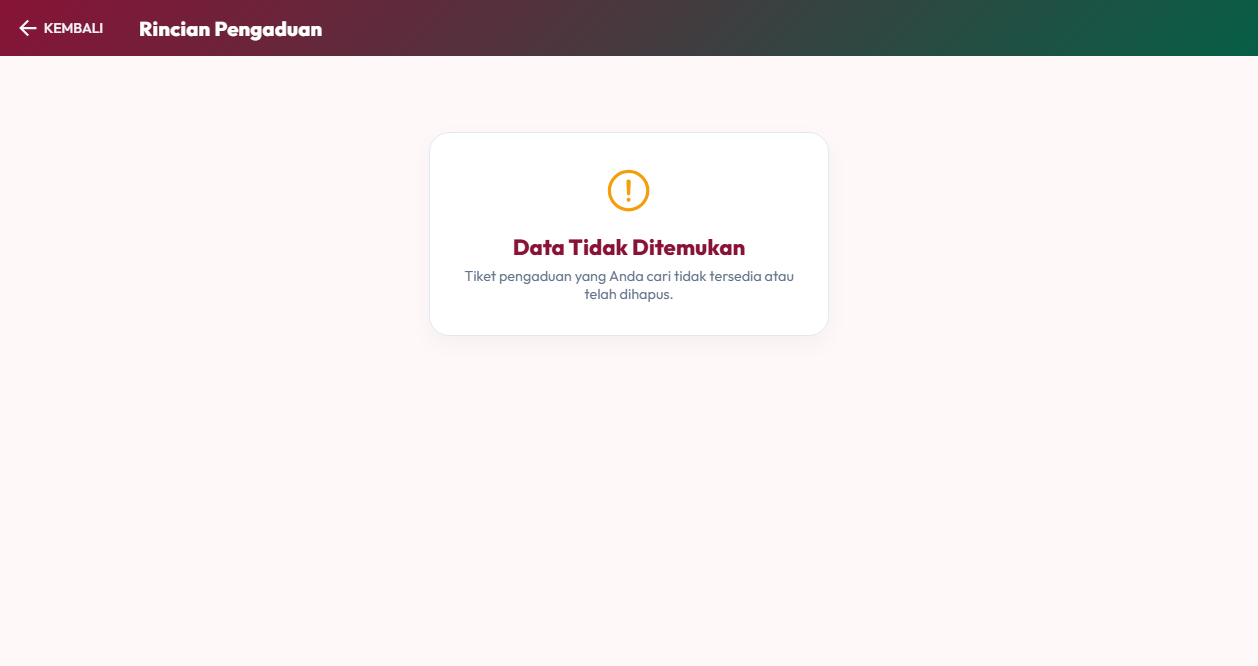
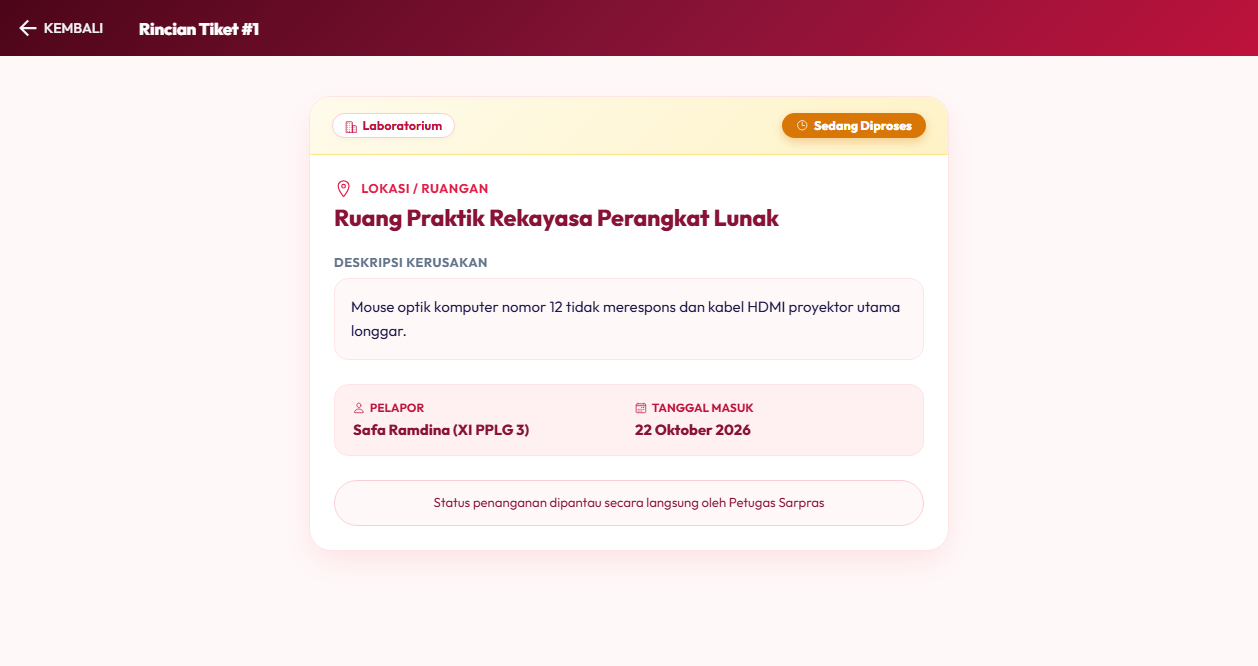
fix: resolve user role extraction, improve detail async fetching, and update all screenshots

diff --git a/Beringin-Smart/src/pages/Detail.tsx b/Beringin-Smart/src/pages/Detail.tsx
@@ -27,18 +27,23 @@ import {
 } from 'ionicons/icons';
 import { useParams } from 'react-router-dom';
 import { LaporanContext } from '../context/LaporanContext';
+import { Laporan } from '../types/laporan';
+import api from '../services/api';
 
 const Detail: React.FC = () => {
   const { id } = useParams<{ id: string }>();
   const idLaporan = id || '';
-  const { getLaporanById, ubahStatusLaporan } = useContext(LaporanContext);
+  const { getLaporanById, ubahStatusLaporan, laporanList } = useContext(LaporanContext);
+  const [laporan, setLaporan] = useState<Laporan | null>(null);
+  const [fetching, setFetching] = useState<boolean>(true);
   const [loading, setLoading] = useState(false);
   const [showToast, setShowToast] = useState(false);
   const [toastMsg, setToastMsg] = useState('');
   const [toastColor, setToastColor] = useState('dark');
 
-  const laporan = getLaporanById(idLaporan);
-  const role = localStorage.getItem('role') || 'siswa';
+  const userJson = localStorage.getItem('user');
+  const currentUser = userJson ? JSON.parse(userJson) : null;
+  const role = localStorage.getItem('role') === 'petugas' || currentUser?.role === 'petugas' ? 'petugas' : 'siswa';
 
   // Auth Guard: Arahkan ke /login jika belum ada token
   useEffect(() => {
@@ -47,6 +52,35 @@ const Detail: React.FC = () => {
     }
   }, []);
 
+  // Fetch / Retrieve Laporan reliably even on direct link or full refresh
+  useEffect(() => {
+    let isMounted = true;
+    const item = getLaporanById(idLaporan);
+    if (item) {
+      setLaporan(item);
+      setFetching(false);
+    } else {
+      setFetching(true);
+      api
+        .get('/laporan')
+        .then((res) => {
+          if (!isMounted) return;
+          const list: Laporan[] = res.data?.data || res.data || [];
+          const found = list.find((it) => String(it.id) === String(idLaporan));
+          if (found) {
+            setLaporan(found);
+          }
+        })
+        .catch((err) => console.error('Gagal mengambil detail laporan:', err))
+        .finally(() => {
+          if (isMounted) setFetching(false);
+        });
+    }
+    return () => {
+      isMounted = false;
+    };
+  }, [idLaporan, laporanList]);
+
   const handleSelesai = async () => {
     if (!idLaporan) return;
     setLoading(true);
@@ -54,6 +88,7 @@ const Detail: React.FC = () => {
     setLoading(false);
 
     if (success) {
+      setLaporan((prev) => (prev ? { ...prev, status: 'Selesai' } : null));
       setToastMsg('Status laporan berhasil diperbarui menjadi Selesai!');
       setToastColor('success');
       setShowToast(true);
@@ -64,21 +99,80 @@ const Detail: React.FC = () => {
     }
   };
 
+  if (fetching) {
+    return (
+      <IonPage>
+        <IonHeader className="ion-no-border">
+          <IonToolbar
+            style={
+              {
+                '--background': 'linear-gradient(135deg, #4c0519 0%, #881337 55%, #be123c 100%)',
+                '--color': '#ffffff',
+              } as React.CSSProperties
+            }
+          >
+            <IonButtons slot="start">
+              <IonBackButton defaultHref="/home" text="KEMBALI" color="light" />
+            </IonButtons>
+            <IonTitle style={{ fontWeight: 800, fontFamily: "'Outfit', sans-serif" }}>
+              Memuat Rincian...
+            </IonTitle>
+          </IonToolbar>
+        </IonHeader>
+        <IonContent
+          className="ion-padding ion-text-center"
+          style={{ '--background': '#fff8f8' } as React.CSSProperties}
+        >
+          <div style={{ padding: '80px 20px' }}>
+            <IonSpinner name="crescent" color="primary" style={{ width: '42px', height: '42px' }} />
+            <p style={{ marginTop: '14px', color: '#881337', fontWeight: 700, fontSize: '0.92rem' }}>
+              Memuat data tiket pengaduan sarpras...
+            </p>
+          </div>
+        </IonContent>
+      </IonPage>
+    );
+  }
+
   if (!laporan) {
     return (
       <IonPage>
         <IonHeader className="ion-no-border">
-          <IonToolbar style={{ '--background': 'linear-gradient(135deg, #881337 0%, #065f46 100%)', '--color': '#ffffff' } as React.CSSProperties}>
+          <IonToolbar
+            style={
+              {
+                '--background': 'linear-gradient(135deg, #4c0519 0%, #881337 55%, #be123c 100%)',
+                '--color': '#ffffff',
+              } as React.CSSProperties
+            }
+          >
             <IonButtons slot="start">
-              <IonBackButton defaultHref="/home" text="Kembali" color="light" />
+              <IonBackButton defaultHref="/home" text="KEMBALI" color="light" />
             </IonButtons>
-            <IonTitle style={{ fontWeight: 800, fontFamily: "'Outfit', sans-serif" }}>Rincian Pengaduan</IonTitle>
+            <IonTitle style={{ fontWeight: 800, fontFamily: "'Outfit', sans-serif" }}>
+              Rincian Pengaduan
+            </IonTitle>
           </IonToolbar>
         </IonHeader>
-        <IonContent className="ion-padding ion-text-center" style={{ '--background': '#fff8f8' } as React.CSSProperties}>
-          <div style={{ maxWidth: '400px', margin: '60px auto', padding: '32px', background: '#ffffff', borderRadius: '20px', border: '1px solid #e2e8f0', boxShadow: '0 8px 24px rgba(0,0,0,0.04)' }}>
+        <IonContent
+          className="ion-padding ion-text-center"
+          style={{ '--background': '#fff8f8' } as React.CSSProperties}
+        >
+          <div
+            style={{
+              maxWidth: '400px',
+              margin: '60px auto',
+              padding: '32px',
+              background: '#ffffff',
+              borderRadius: '20px',
+              border: '1px solid #ffe4e6',
+              boxShadow: '0 8px 24px rgba(225,29,72,0.06)',
+            }}
+          >
             <IonIcon icon={alertCircleOutline} style={{ fontSize: '3.2rem', color: '#f59e0b', marginBottom: '14px' }} />
-            <h3 style={{ margin: '0 0 6px 0', fontWeight: 800, color: '#881337', fontFamily: "'Outfit', sans-serif" }}>Data Tidak Ditemukan</h3>
+            <h3 style={{ margin: '0 0 6px 0', fontWeight: 800, color: '#881337', fontFamily: "'Outfit', sans-serif" }}>
+              Data Tidak Ditemukan
+            </h3>
             <p style={{ margin: 0, color: '#64748b', fontSize: '0.9rem' }}>
               Tiket pengaduan yang Anda cari tidak tersedia atau telah dihapus.
             </p>
@@ -93,11 +187,25 @@ const Detail: React.FC = () => {
   return (
     <IonPage>
       <IonHeader className="ion-no-border">
-        <IonToolbar style={{ '--background': 'linear-gradient(135deg, #881337 0%, #065f46 60%, #be123c 100%)', '--color': '#ffffff' } as React.CSSProperties}>
+        <IonToolbar
+          style={
+            {
+              '--background': 'linear-gradient(135deg, #4c0519 0%, #881337 55%, #be123c 100%)',
+              '--color': '#ffffff',
+            } as React.CSSProperties
+          }
+        >
           <IonButtons slot="start">
             <IonBackButton defaultHref="/home" text="KEMBALI" color="light" />
           </IonButtons>
-          <IonTitle style={{ fontWeight: 800, letterSpacing: '-0.2px', fontSize: '1.05rem', fontFamily: "'Outfit', sans-serif" }}>
+          <IonTitle
+            style={{
+              fontWeight: 800,
+              letterSpacing: '-0.2px',
+              fontSize: '1.05rem',
+              fontFamily: "'Outfit', sans-serif",
+            }}
+          >
             Rincian Tiket #{laporan.id}
           </IonTitle>
         </IonToolbar>
@@ -110,8 +218,8 @@ const Detail: React.FC = () => {
             style={{
               margin: 0,
               borderRadius: '22px',
-              boxShadow: '0 12px 32px -6px rgba(5, 150, 105, 0.1)',
-              border: '1px solid #e2e8f0',
+              boxShadow: '0 12px 32px -6px rgba(225, 29, 72, 0.12)',
+              border: '1px solid #ffe4e6',
               overflow: 'hidden',
               background: '#ffffff',
             }}
@@ -120,10 +228,10 @@ const Detail: React.FC = () => {
             <div
               style={{
                 background: isCompleted
-                  ? 'linear-gradient(135deg, #fff1f2 0%, #ffe4e6 100%)'
+                  ? 'linear-gradient(135deg, #f0fdf4 0%, #dcfce7 100%)'
                   : 'linear-gradient(135deg, #fffbeb 0%, #fef3c7 100%)',
                 padding: '16px 22px',
-                borderBottom: `1px solid ${isCompleted ? '#fecdd3' : '#fde68a'}`,
+                borderBottom: `1px solid ${isCompleted ? '#a7f3d0' : '#fde68a'}`,
                 display: 'flex',
                 alignItems: 'center',
                 justifyContent: 'space-between',
@@ -153,7 +261,7 @@ const Detail: React.FC = () => {
                     display: 'inline-flex',
                     alignItems: 'center',
                     gap: '6px',
-                    background: '#e11d48',
+                    background: '#059669',
                     color: '#ffffff',
                     padding: '5px 14px',
                     borderRadius: '9999px',
@@ -209,7 +317,17 @@ const Detail: React.FC = () => {
 
               {/* Rincian Masalah */}
               <div style={{ marginBottom: '24px' }}>
-                <label style={{ display: 'block', fontSize: '0.8rem', fontWeight: 700, color: '#64748b', textTransform: 'uppercase', letterSpacing: '0.5px', marginBottom: '8px' }}>
+                <label
+                  style={{
+                    display: 'block',
+                    fontSize: '0.8rem',
+                    fontWeight: 700,
+                    color: '#64748b',
+                    textTransform: 'uppercase',
+                    letterSpacing: '0.5px',
+                    marginBottom: '8px',
+                  }}
+                >
                   Deskripsi Kerusakan
                 </label>
                 <div
@@ -217,8 +335,8 @@ const Detail: React.FC = () => {
                     background: '#fff8f8',
                     padding: '16px',
                     borderRadius: '14px',
-                    border: '1px solid #e2e8f0',
-                    color: '#1e293b',
+                    border: '1px solid #ffe4e6',
+                    color: '#1e1b4b',
                     fontSize: '0.94rem',
                     lineHeight: '1.6',
                   }}
@@ -233,15 +351,25 @@ const Detail: React.FC = () => {
                   display: 'grid',
                   gridTemplateColumns: '1fr 1fr',
                   gap: '12px',
-                  background: '#f0fdf4',
+                  background: '#fff1f2',
                   padding: '14px 18px',
                   borderRadius: '14px',
-                  border: '1px solid #dcfce7',
+                  border: '1px solid #ffe4e6',
                   marginBottom: '24px',
                 }}
               >
                 <div>
-                  <div style={{ display: 'flex', alignItems: 'center', gap: '5px', color: '#be123c', fontSize: '0.74rem', fontWeight: 700, textTransform: 'uppercase' }}>
+                  <div
+                    style={{
+                      display: 'flex',
+                      alignItems: 'center',
+                      gap: '5px',
+                      color: '#be123c',
+                      fontSize: '0.74rem',
+                      fontWeight: 700,
+                      textTransform: 'uppercase',
+                    }}
+                  >
                     <IonIcon icon={personOutline} /> Pelapor
                   </div>
                   <div style={{ fontWeight: 800, color: '#881337', fontSize: '0.92rem', marginTop: '2px' }}>
@@ -250,7 +378,17 @@ const Detail: React.FC = () => {
                 </div>
 
                 <div>
-                  <div style={{ display: 'flex', alignItems: 'center', gap: '5px', color: '#be123c', fontSize: '0.74rem', fontWeight: 700, textTransform: 'uppercase' }}>
+                  <div
+                    style={{
+                      display: 'flex',
+                      alignItems: 'center',
+                      gap: '5px',
+                      color: '#be123c',
+                      fontSize: '0.74rem',
+                      fontWeight: 700,
+                      textTransform: 'uppercase',
+                    }}
+                  >
                     <IonIcon icon={calendarOutline} /> Tanggal Masuk
                   </div>
                   <div style={{ fontWeight: 800, color: '#881337', fontSize: '0.92rem', marginTop: '2px' }}>
@@ -277,7 +415,7 @@ const Detail: React.FC = () => {
                         height: '48px',
                         '--background': 'linear-gradient(135deg, #e11d48 0%, #be123c 100%)',
                         '--border-radius': '9999px',
-                        '--box-shadow': '0 8px 20px rgba(5, 150, 105, 0.35)',
+                        '--box-shadow': '0 8px 20px rgba(225, 29, 72, 0.35)',
                         fontWeight: 700,
                         fontSize: '0.92rem',
                       }}
@@ -296,12 +434,12 @@ const Detail: React.FC = () => {
                       style={{
                         textAlign: 'center',
                         padding: '12px',
-                        background: '#fff1f2',
+                        background: '#f0fdf4',
                         borderRadius: '9999px',
-                        color: '#be123c',
+                        color: '#047857',
                         fontWeight: 700,
                         fontSize: '0.85rem',
-                        border: '1px solid #fecdd3',
+                        border: '1px solid #a7f3d0',
                       }}
                     >
                       <IonIcon icon={informationCircleOutline} style={{ verticalAlign: 'middle', marginRight: '6px' }} />
@@ -316,9 +454,9 @@ const Detail: React.FC = () => {
                     padding: '12px',
                     background: '#fff8f8',
                     borderRadius: '9999px',
-                    color: '#64748b',
+                    color: '#881337',
                     fontSize: '0.82rem',
-                    border: '1px solid #e2e8f0',
+                    border: '1px solid #fecdd3',
                   }}
                 >
                   Status penanganan dipantau secara langsung oleh Petugas Sarpras

diff --git a/Beringin-Smart/src/pages/Login.tsx b/Beringin-Smart/src/pages/Login.tsx
@@ -47,7 +47,8 @@ const Login: React.FC = () => {
 
       if (response.data && response.data.token) {
         localStorage.setItem('token', response.data.token);
-        localStorage.setItem('role', response.data.role);
+        const resolvedRole = response.data.role || response.data.user?.role || 'siswa';
+        localStorage.setItem('role', resolvedRole);
         localStorage.setItem('user', JSON.stringify(response.data.user));
         window.location.href = '/home';
       } else {

diff --git a/Beringin-Smart/src/pages/Home.tsx b/Beringin-Smart/src/pages/Home.tsx
@@ -72,9 +72,9 @@ const Home: React.FC = () => {
   const [selectedCategory, setSelectedCategory] = useState('Semua');
 
   // User Info & Role
-  const userRole = localStorage.getItem('role') || 'siswa';
   const userJson = localStorage.getItem('user');
   const currentUser = userJson ? JSON.parse(userJson) : null;
+  const userRole = localStorage.getItem('role') === 'petugas' || currentUser?.role === 'petugas' ? 'petugas' : 'siswa';
 
   // Handler Logout
   const handleLogout = () => {
